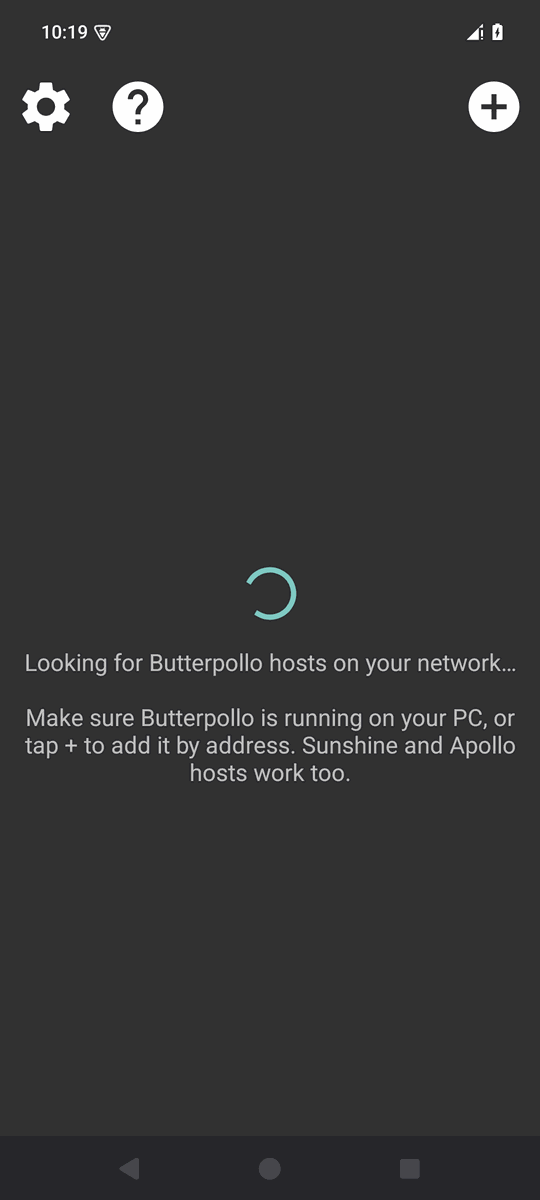
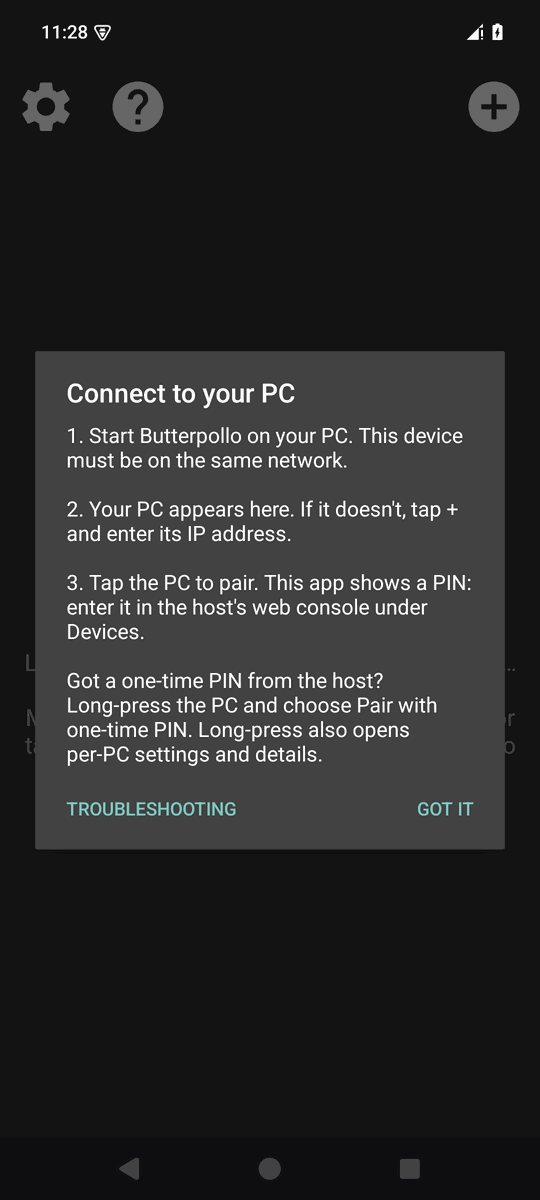
test(android): smoke the new settings, pairing and host dialogs
The emulator smoke test now dismisses the pairing guide, opens the
one-time PIN and host details dialogs, edits a per-PC profile in Mbps,
walks the settings sub-screens, sets the bitrate through a preset and
the + button, and checks Reset all settings. Screenshots and the README
are refreshed to match.

diff --git a/scripts/emulator-smoke.py b/scripts/emulator-smoke.py
@@ -71,18 +71,26 @@ def tap(label, scroll=False):
     adb("shell", "input", "tap", str((x1+x2)//2), str((y1+y2)//2))
 
 
-def open_host_profile():
+def host_menu(item):
     x1, y1, x2, y2 = bounds(find(HOST_NAME))
     x, y = str((x1+x2)//2), str((y1+y2)//2)
     adb("shell", "input", "swipe", x, y, x, y, "1000")
-    tap("Streaming settings for this PC")
+    tap(item)
+
+
+def open_host_profile():
+    host_menu("Streaming settings for this PC")
     find(f"{HOST_NAME} streaming settings")
 
 
 def profile_number(label, value):
-    label_bottom = bounds(find(label, scroll=True))[3]
+    # Width and height share a row and are found by their content description
     fields = [n for n in tree().iter("node") if n.get("class") == "android.widget.EditText"
-              and bounds(n)[1] >= label_bottom]
+              and n.get("content-desc") == label]
+    if not fields:
+        label_bottom = bounds(find(label, scroll=True))[3]
+        fields = [n for n in tree().iter("node") if n.get("class") == "android.widget.EditText"
+                  and bounds(n)[1] >= label_bottom]
     field = min(fields, key=lambda n: bounds(n)[1])
     x1, y1, x2, y2 = bounds(field)
     adb("shell", "input", "tap", str((x1+x2)//2), str((y1+y2)//2))
@@ -131,6 +139,7 @@ class HostFixture(http.server.BaseHTTPRequestHandler):
           <PairStatus>0</PairStatus><currentgame>0</currentgame>
           <state>SUNSHINE_SERVER_FREE</state><HttpsPort>47984</HttpsPort>
           <ServerCodecModeSupport>197377</ServerCodecModeSupport>
+          <RustHostVersion>2.0.0</RustHostVersion>
         </root>'''.encode()
         self.send_response(200)
         self.send_header("Content-Type", "application/xml")
@@ -182,8 +191,9 @@ def main():
             adb("logcat", "-c")
             adb("shell", "input", "keyevent", "82")
             adb("shell", "am", "start", "-W", "-n", f"{PACKAGE}/com.limelight.PcView")
-            find(f"{PACKAGE}:id/manuallyAddPc")
+            find("Connect to your PC")
             screenshot("01-launch")
+            tap("android:id/button1")
             tap(f"{PACKAGE}:id/manuallyAddPc")
             tap(f"{PACKAGE}:id/hostTextView")
             adb("shell", "input", "text", "127.0.0.1:47989")
@@ -191,44 +201,73 @@ def main():
             tap(f"{PACKAGE}:id/addPcButton")
             find(HOST_NAME)
             screenshot("03-host-added")
+            host_menu("Pair with one-time PIN")
+            find("One-time PIN")
+            screenshot("16-otp-pairing")
+            tap("android:id/button2")
+            host_menu("View details")
+            find("Butterpollo 2.0.0")
+            screenshot("15-host-details")
+            tap("android:id/button1")
             open_host_profile()
-            profile_number("Width (pixels, 64–16384)", "0")
+            find("This PC uses your global settings. Save to give it its own.")
+            profile_number("Width", "0")
             tap("android:id/button1")
             find(f"{HOST_NAME} streaming settings")
-            profile_number("Width (pixels, 64–16384)", "1920")
-            profile_number("Height (pixels, 64–16384)", "1080")
+            profile_number("Width", "1920")
+            profile_number("Height", "1080")
             profile_number("Refresh rate (Hz)", "59.94")
+            profile_number("Bitrate (Mbps)", "45.5")
             screenshot("09-host-profile")
             tap("android:id/button1")
             prefs("HostStreamProfiles", lambda root: any(
                 n.get("name") == "00000000-0000-4000-8000-000000000006" and
-                (n.text or "").startswith("1920,1080,5994,") for n in root), "Host profile was not saved")
+                (n.text or "").startswith("1920,1080,5994,45500,") for n in root), "Host profile was not saved")
             open_host_profile()
+            find("This PC has its own settings. Use global settings to remove them.")
             find("59.94")
             find("Prefer YUV 4:4:4", scroll=True)
             screenshot("10-host-codec-profile")
             tap("android:id/button3")
             prefs("HostStreamProfiles", lambda root: not list(root), "Host profile reset did not clear overrides")
             tap(f"{PACKAGE}:id/settingsButton")
-            find("Display")
+            find("Reset all settings")
             screenshot("04-settings")
+            tap("Video and display")
+            find("Display")
+            screenshot("05-video-settings")
+            tap("Video bitrate")
+            tap("80")
+            tap("Increase")
+            find("81 Mbps")
+            screenshot("06-bitrate")
+            tap("android:id/button1")
+            prefs(f"{PACKAGE}_preferences", lambda root: any(
+                n.get("name") == "seekbar_bitrate_kbps" and n.get("value") == "81000" for n in root),
+                "Bitrate was not stored in kbps")
+            adb("shell", "input", "keyevent", "4")
+            find("1280×720 · 60 FPS · 81 Mbps · Automatic")
+            tap("Latency and diagnostics")
             find("Android low-latency mode", scroll=True)
-            screenshot("05-latency-controls")
             overlay = "Show performance overlay"
             tap(overlay, scroll=True)
-            screenshot("06-latency-settings")
+            screenshot("13-latency-settings")
             prefs(f"{PACKAGE}_preferences", lambda root: any(
                 n.get("name") == "checkbox_enable_perf_overlay" and n.get("value") == "true" for n in root),
                 "Overlay preference was not enabled")
             adb("shell", "input", "keyevent", "3")
             adb("shell", "am", "start", "-W", "-n", f"{PACKAGE}/com.limelight.PcView")
             find(overlay)
+            tap("Navigate up")
+            tap("App and about")
             find("Butterpollo Android", scroll=True)
-            screenshot("09-settings-about")
+            screenshot("14-settings-about")
             summary = next((n.get("text", "") for n in tree().iter("node")
                             if "Moonlight" in n.get("text", "")), "")
             assert "GPL-3.0" in summary, "About entry lost the Moonlight attribution"
-            tap("Controller buttons", scroll="up")
+            tap("Navigate up")
+            tap("Controllers, touch and mouse")
+            tap("Controller buttons", scroll=True)
             find("Waiting for a button press…")
             adb("shell", "input", "gamepad", "keyevent", "KEYCODE_BUTTON_Y")
             find("Y sends…")
@@ -240,6 +279,15 @@ def main():
                   "Controller mapping was not saved")
             adb("shell", "input", "keyevent", "4")
             find("Controller buttons")
+            tap("Navigate up")
+            tap("Reset all settings")
+            tap("android:id/button1")
+            find("1280×720 · 60 FPS · 10 Mbps · Automatic")
+            prefs(f"{PACKAGE}_preferences", lambda root: not any(
+                n.get("name") == "checkbox_enable_perf_overlay" and n.get("value") == "true" for n in root),
+                "Reset kept the overlay setting")
+            prefs("ControllerButtonMaps", lambda root: any(n.text == "100:96" for n in root),
+                  "Reset removed the controller mapping")
             adb("shell", "input", "keyevent", "4")
             find(HOST_NAME)
             adb("shell", "am", "start", "-W", "-n", f"{PACKAGE}/com.limelight.LatencyOverlaySmokeActivity")
@@ -256,7 +304,7 @@ def main():
             LOGS.joinpath("crashes.txt").write_text(crashes, encoding="utf-8")
             if "FATAL EXCEPTION" in crashes or "Fatal signal" in crashes:
                 raise AssertionError("Emulator crash buffer is not clean")
-            print(f"PASS: manual discovery, host profile validation/save/reset, settings, controller mapping, overlay and rotation; screenshots: {SHOTS}", flush=True)
+            print(f"PASS: pairing guide, manual discovery, OTP and details dialogs, host profile validation/save/reset, settings screens, bitrate, controller mapping, reset, overlay and rotation; screenshots: {SHOTS}", flush=True)
         finally:
             try:
                 LOGS.joinpath("logcat.txt").write_text(adb("logcat", "-d"), encoding="utf-8")

diff --git a/README.md b/README.md
@@ -26,11 +26,17 @@ based on Moonlight Android (GPL-3.0), with stock Sunshine and Apollo compatibili
   host library order and versioned artwork updates.
 - Foreground text clipboard transfer, permission-aware host actions and encrypted server commands.
 - A stream menu for disconnect/resume, device permissions, host frame-limiter status and runtime bitrate.
-- Butterpollo branding and display, latency, and codec settings groups; conservative 720p/60,
-  automatic codec selection and low-latency decoding defaults.
+- Settings split into Video, Latency, Input, Host and App screens with a title bar, a summary of the
+  current stream setup, and **Reset all settings** (keeps paired PCs, per-PC settings and the
+  on-screen control layout). Conservative 720p/60, automatic codec and low-latency decoding defaults.
+- A bitrate dialog built for LAN rates: logarithmic slider, -/+ fine steps and presets from 10 Mbps
+  to the 280 Mbps PyroWave starting point.
+- A short, skippable pairing guide on first launch (also behind the **?** button), and readable
+  host details with **Copy debug info** for support reports.
 
 See [the parity audit and device-testing checklist](docs/BUTTERPOLLO_PARITY.md) for PyroWave feasibility
-findings, supported host extras and known limits.
+findings, supported host extras and known limits. Having trouble? See [troubleshooting](docs/TROUBLESHOOTING.md)
+for pairing, firewall ports, black screens, stutter, latency, HDR and PyroWave requirements.
 
 ## Install
 
@@ -91,12 +97,17 @@ Screenshots go to `docs/screenshots/` (half size, palette PNG when Pillow is ins
 The emulator is stopped in a `finally` block. The fixture does not pair or stream; overlay timings
 remain unavailable. The debug overlay activity is absent from release builds.
 
-The smoke test also validates per-PC profile input, saving, reopening and resetting to global settings.
+The smoke test also walks the pairing guide, the one-time PIN and host details dialogs, per-PC profile
+input, saving, reopening and resetting, the settings screens, the bitrate dialog and Reset all settings.
 These are emulator captures, not evidence of hardware decoding or a live host connection.
 
-| Per-PC streaming settings | Codec and colour profile | Performance overlay |
+| Settings | Bitrate | Per-PC streaming settings |
 | --- | --- | --- |
-| ![Per-PC custom resolution and refresh](docs/screenshots/09-host-profile.png) | ![Per-PC codec and colour options](docs/screenshots/10-host-codec-profile.png) | ![Latency overlay with unavailable fixture timings](docs/screenshots/07-latency-overlay.png) |
+| ![Top-level settings with the current stream setup](docs/screenshots/04-settings.png) | ![Bitrate dialog with slider, fine steps and presets](docs/screenshots/06-bitrate.png) | ![Per-PC resolution, refresh and bitrate](docs/screenshots/09-host-profile.png) |
+
+| Pairing guide | Host details | Performance overlay |
+| --- | --- | --- |
+| ![First-run pairing guide](docs/screenshots/01-launch.png) | ![Host details with Copy debug info](docs/screenshots/15-host-details.png) | ![Latency overlay with unavailable fixture timings](docs/screenshots/07-latency-overlay.png) |
 
 ## Upstream Moonlight
 
